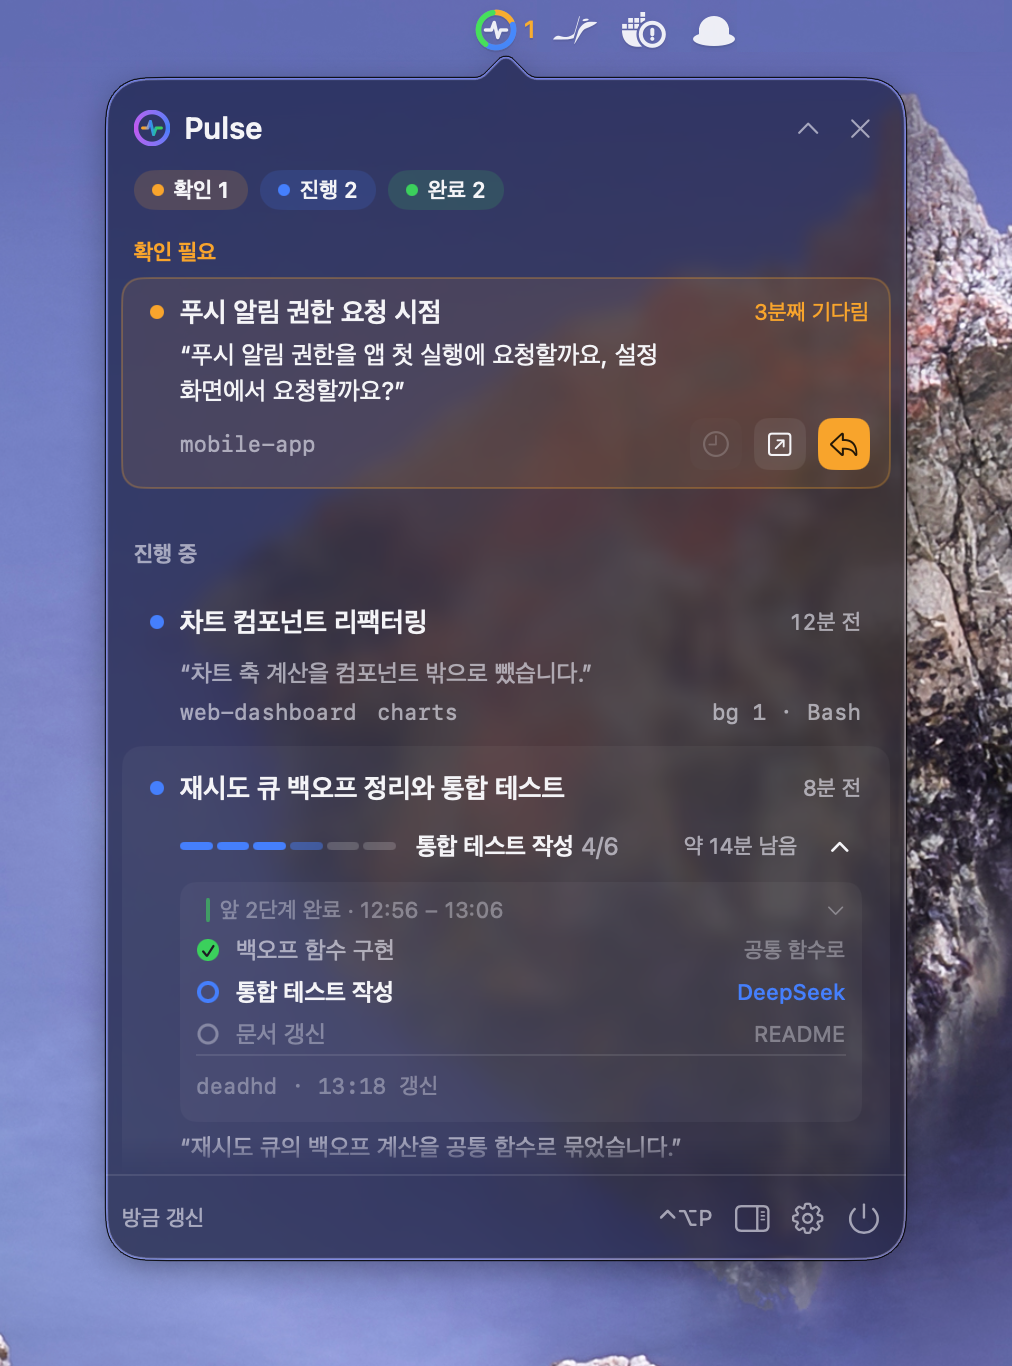
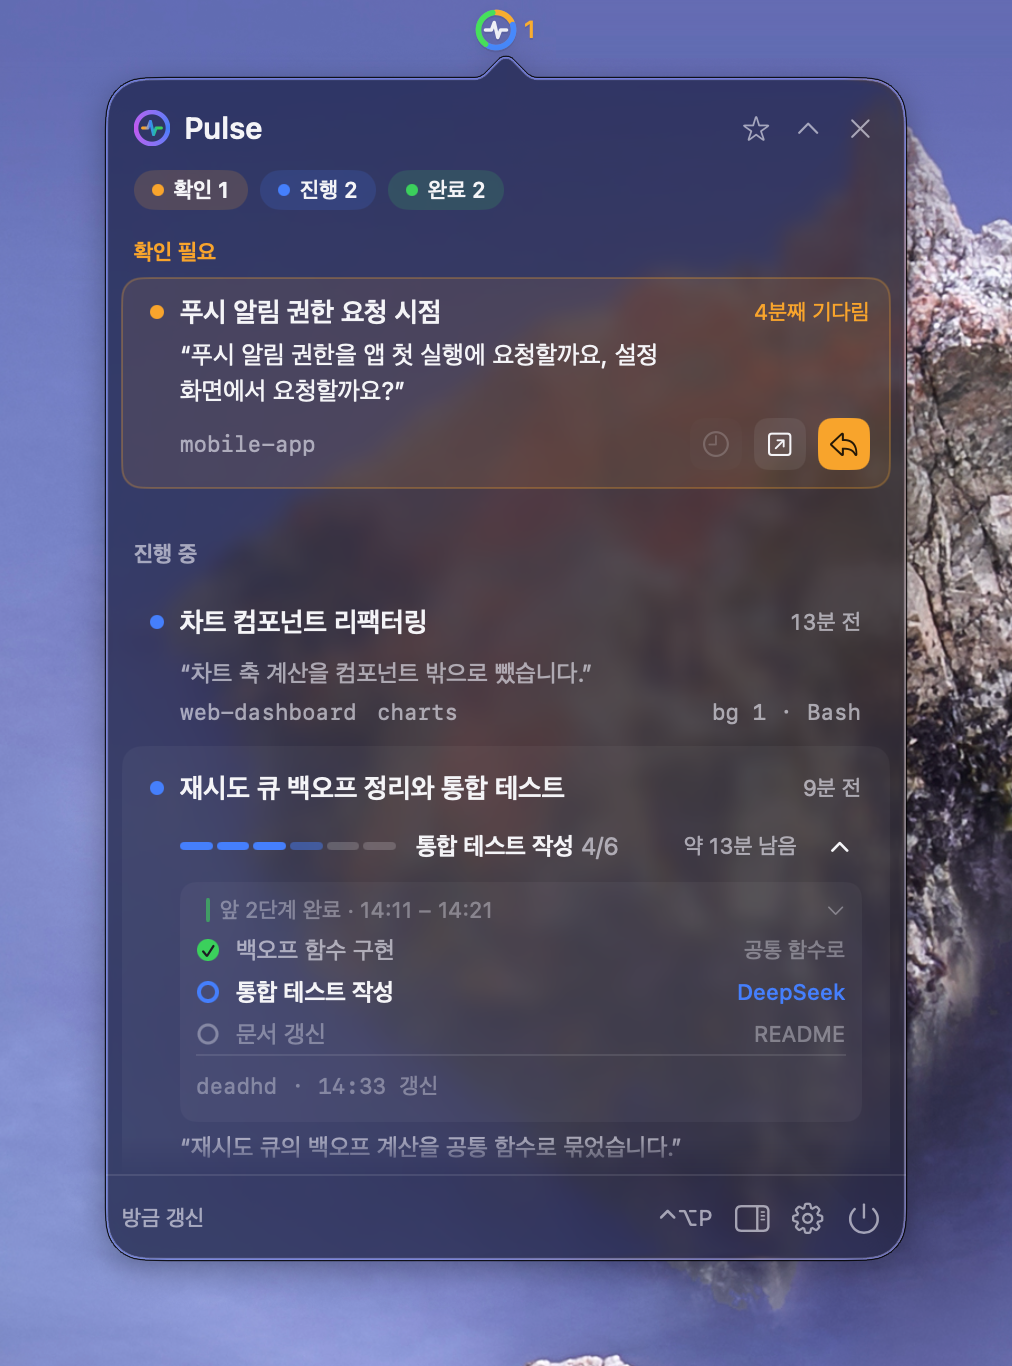
docs: 머리글 GitHub 별 버튼 설명과 그림 갱신
- README 두 판의 머리글 설명에 GitHub 별 버튼 추가
- popover, deadhd-steps, panel 그림을 한국어판·영어판으로 다시 촬영

diff --git a/README.md b/README.md
@@ -56,7 +56,7 @@ brew services start lcalmsky/pulse/pulse
 - **확인 필요** 기다린 시간과 마지막 답을 보여 줍니다. 버튼은 10분 더 기다리기, 열기, 답하기입니다
 - **진행 중** 단계 막대와 남은 시간, 지금 하는 일을 보여 줍니다. 마우스를 올리면 진행 페이지와 Orca 버튼이 나옵니다
 - **완료** 최근 5개만 보이고 나머지는 `그 밖에 N개` 로 접힙니다
-- **머리글과 바닥글** 위에는 세 그룹의 수와 접기 버튼, 아래에는 갱신 시각과 플로팅 패널·설정·종료 버튼이 있습니다
+- **머리글과 바닥글** 위에는 세 그룹의 수와 GitHub 별 버튼·접기 버튼, 아래에는 갱신 시각과 플로팅 패널·설정·종료 버튼이 있습니다
 - **검색** `⌘`·`⌃` 없이 글자를 치면 머리글 아래에 검색 줄이 열립니다. 제목, 워크트리·브랜치, 작업 디렉터리 이름, 키, 티켓 키, PR 라벨에서 찾고, 공백으로 나눈 낱말이 모두 들어 있어야 합니다. 화면에서 접힌 완료 항목까지 찾습니다
 
 세션이 없으면 빈 화면을, 읽지 못하면 `지금 재시도` 배너를 보여 줍니다.

diff --git a/README.en.md b/README.en.md
@@ -56,7 +56,7 @@ The list is ordered **attention → working → done**.
 - **Attention** shows how long it has been waiting and the last answer. The buttons are wait 10 more minutes, open, and reply
 - **Working** shows a step bar, the remaining time, and what it is doing now. On hover, the progress page and go to Orca buttons appear
 - **Done** shows the latest five only and folds the rest into `N more`
-- **Header and footer** the header has the three group counts and a collapse button, and the footer has the refresh time and the floating panel, settings, and quit buttons
+- **Header and footer** the header has the three group counts and the GitHub star and collapse buttons, and the footer has the refresh time and the floating panel, settings, and quit buttons
 - **Search** typing without `⌘` or `⌃` opens a search line below the header. It searches titles, worktrees and branches, working directory names, keys, ticket keys, and PR labels, and every space-separated word must be present. It also finds done items folded out of view
 
 When there are no sessions it shows an empty state, and when sessions cannot be read it shows a `Retry now` banner.
